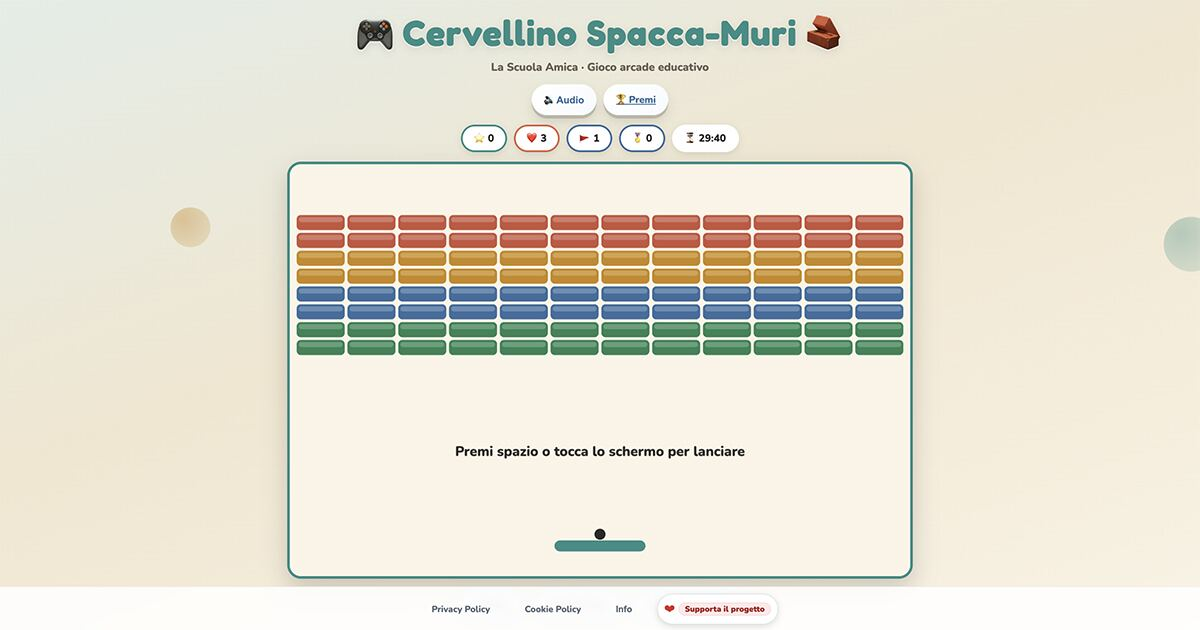
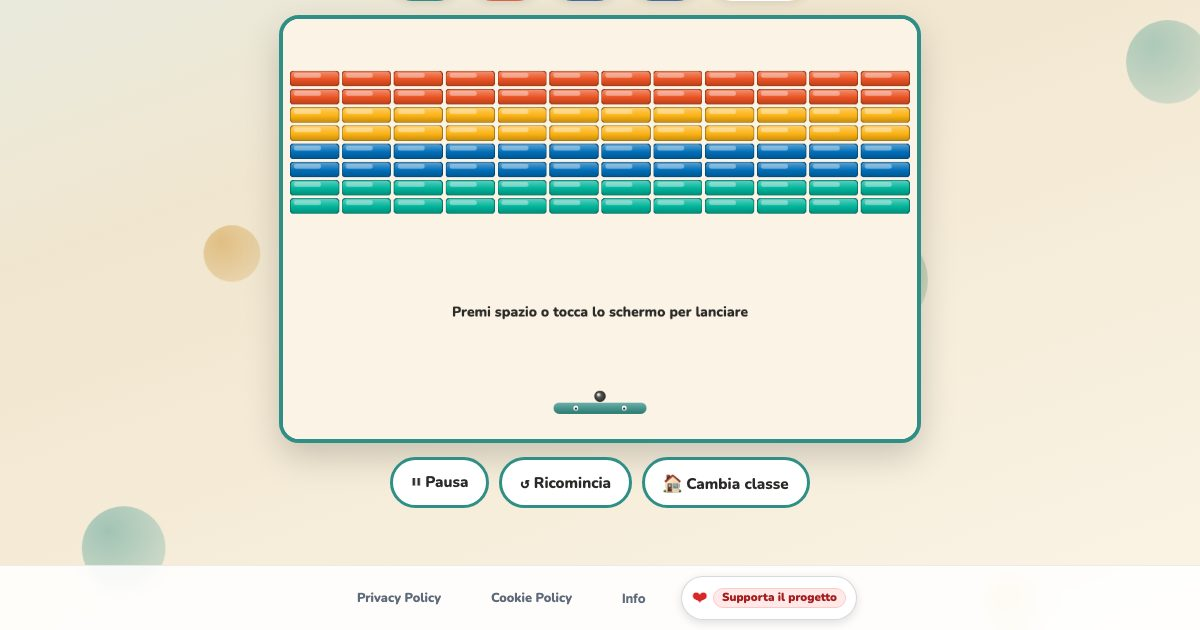
fix(seo): CLS mobile, mismatch schema FAQ, anteprima /breakout
Chiude 3 dei 4 item rimanenti dell'audit SEO del 25/08 (bump 4.12.31 -> 4.12.32):

- fix(perf): CLS mobile fuori soglia su /chi-siamo (0.254 Poor) e home (0.105)
  causato dal footer condiviso che popola #questionsTotalCount dopo il paint
  iniziale mentre parte con l'attributo hidden (footprint zero). Riservato lo
  spazio in CSS - verificato 0px di shift su /chi-siamo mobile.
- fix(perf): bug preesistente trovato testando su iPhone reale - il padding
  del footer (132px) non copriva le 3 righe reali del footer su /chi-siamo
  (169px), tagliando il testo del pulsante "Torna alla home". Portato a 190px.
- fix(schema): testo FAQPage non allineato al testo visibile su
  matematica/geografia/storia/italiano (3 risposte per pagina) - allineato 1:1.
- fix(schema): problemi.html aveva 4 "esempi svolti" che riusavano la classe
  FAQ facendo apparire 11 voci FAQ invece di 7 - rinominati in seo-example-item.
- feat(seo): prima immagine di contenuto del sito - anteprima gameplay su
  /breakout, riusando/ricatturando l'asset og-breakout-1200x630.jpg (mostrava
  ancora i mattoni pre-restyling; poi reinquadrato per includere pallina/barra
  dopo test utente su device reale).

Testato in locale (server LAN) dall'utente su iPhone 17 Pro Max, tutti i punti
confermati. Item 4 del piano (/breakout page-type mismatch SXO) discusso e
accettato senza modifiche strutturali - nessuna pagina hub "Giochi" per ora.

diff --git a/index.html b/index.html
@@ -188,7 +188,7 @@ header{text-align:center;margin-bottom:48px;animation:bounceIn .9s cubic-bezier(
 .cards-row{display:grid;grid-template-columns:repeat(auto-fit,minmax(220px,1fr));gap:24px;width:100%;max-width:980px;margin:0 auto}.subject-card{border-radius:32px;padding:36px 24px 32px;text-align:center;cursor:pointer;position:relative;overflow:hidden;text-decoration:none;display:flex;flex-direction:column;align-items:center;height:100%;min-height:440px;transition:transform .2s,box-shadow .2s}.subject-card::before{content:'';position:absolute;top:-40px;right:-40px;width:160px;height:160px;border-radius:50%;background:rgba(255,255,255,.12)}.subject-card::after{content:'';position:absolute;bottom:-50px;left:-30px;width:180px;height:180px;border-radius:50%;background:rgba(0,0,0,.06)}
 .card-math{background:linear-gradient(145deg,#9B5DE5,#c77dff);box-shadow:0 12px 40px rgba(155,93,229,.5),0 0 0 4px rgba(255,255,255,.3)}.card-english{background:linear-gradient(145deg,#005f85,#0077a3);box-shadow:0 12px 40px rgba(0,106,149,.5),0 0 0 4px rgba(255,255,255,.3)}.card-problems{background:linear-gradient(145deg,var(--prob-a),var(--prob-b));box-shadow:0 12px 40px rgba(255,123,84,.45),0 0 0 4px rgba(255,255,255,.3)}.card-civica{background:linear-gradient(145deg,var(--civ-a),var(--civ-b));box-shadow:0 12px 40px rgba(42,157,143,.42),0 0 0 4px rgba(255,255,255,.3)}.card-geografia{background:linear-gradient(145deg,var(--geo-a),var(--geo-b));box-shadow:0 12px 40px rgba(45,143,90,.42),0 0 0 4px rgba(255,255,255,.3)}.card-storia{background:linear-gradient(145deg,var(--sto-a),var(--sto-b));box-shadow:0 12px 40px rgba(138,90,68,.42),0 0 0 4px rgba(255,255,255,.3)}.card-scienze{background:linear-gradient(145deg,var(--sci-a),var(--sci-b));box-shadow:0 12px 40px rgba(42,157,143,.42),0 0 0 4px rgba(255,255,255,.3)}.card-italiano{background:linear-gradient(145deg,var(--ita-a),var(--ita-b));box-shadow:0 12px 40px rgba(209,73,91,.42),0 0 0 4px rgba(255,255,255,.3)}
 .card-icon{font-size:4rem;display:block;margin-bottom:12px}.card-title{font-family:'Fredoka One',cursive;font-size:2rem;color:#fff;text-shadow:2px 2px 0 rgba(0,0,0,.15);margin-bottom:6px;min-height:2.4em;display:flex;align-items:center;justify-content:center}.card-desc{font-size:.9rem;font-weight:700;color:rgba(255,255,255,.94);margin-bottom:14px;line-height:1.4;min-height:52px;display:flex;align-items:center;justify-content:center}.card-tags{display:flex;flex-direction:column;align-items:center;gap:8px;margin-bottom:16px;min-height:104px;justify-content:flex-start;width:100%}.tag{background:rgba(0,0,0,.18);border-radius:50px;padding:6px 12px;font-size:.75rem;font-weight:800;color:rgba(255,255,255,.96);border:1px solid rgba(255,255,255,.25);width:100%;max-width:200px;line-height:1.2}.card-btn{display:inline-block;background:#fff;border-radius:50px;padding:12px 32px;font-family:'Fredoka One',cursive;font-size:1.25rem;box-shadow:0 4px 0 rgba(0,0,0,.15);position:relative;z-index:1;margin-top:auto;align-self:center}.card-math .card-btn{color:var(--math-a)}.card-english .card-btn{color:var(--eng-a)}.card-problems .card-btn{color:var(--prob-a)}.card-civica .card-btn{color:var(--civ-a)}.card-geografia .card-btn{color:var(--geo-a)}.card-storia .card-btn{color:var(--sto-a)}.card-scienze .card-btn{color:var(--sci-a)}.card-italiano .card-btn{color:var(--ita-a)}
-footer{position:fixed;bottom:0;left:0;width:100%;background:rgba(255,255,255,.82);backdrop-filter:blur(8px);border-top:1px solid rgba(0,0,0,.07);padding:10px 16px;display:flex;justify-content:center;gap:24px;flex-wrap:wrap;align-items:center;row-gap:8px;z-index:200}.footer-link{min-width:44px;min-height:44px;padding:10px 14px;display:inline-flex;align-items:center;justify-content:center;gap:6px;white-space:nowrap;font-size:.8rem;font-weight:800;color:#5f6b7a;text-decoration:none;border:none;background:none}.footer-link:focus-visible{outline:3px solid #2d6cdf;outline-offset:2px;border-radius:10px}.footer-version{cursor:default;color:inherit;opacity:.95}
+footer{position:fixed;bottom:0;left:0;width:100%;background:rgba(255,255,255,.82);backdrop-filter:blur(8px);border-top:1px solid rgba(0,0,0,.07);padding:10px 16px;display:flex;justify-content:center;gap:24px;flex-wrap:wrap;align-items:center;row-gap:8px;z-index:200}.footer-link{min-width:44px;min-height:44px;padding:10px 14px;display:inline-flex;align-items:center;justify-content:center;gap:6px;white-space:nowrap;font-size:.8rem;font-weight:800;color:#5f6b7a;text-decoration:none;border:none;background:none}.footer-link:focus-visible{outline:3px solid #2d6cdf;outline-offset:2px;border-radius:10px}.footer-version{cursor:default;color:inherit;opacity:.95}#questionsTotalCount[hidden]{display:inline-flex!important;visibility:hidden;min-width:22ch}
 @media(max-width:900px){.cards-row{grid-template-columns:repeat(2,minmax(220px,1fr));max-width:760px}}
 @media(max-width:640px){.main-title{grid-template-columns:1fr;font-size:clamp(2.3rem,10vw,2.8rem)}.main-title .mascot-home{display:none}.main-title-text{grid-column:1;max-width:100%}.cards-row{grid-template-columns:1fr;max-width:420px}.main-facts{border-radius:24px}}
 </style>

diff --git a/problemi.html b/problemi.html
@@ -311,19 +311,19 @@
     <section class="seo-static seo-esempi" aria-label="Esempi di problemi di matematica risolti">
       <h2>Esempi di problemi di matematica risolti per la scuola primaria</h2>
       <p>Risolvere un <strong>problema di matematica per la scuola primaria</strong> significa leggere il testo con attenzione, individuare i dati utili, scegliere l'operazione giusta e controllare il risultato. Ecco 4 esempi, uno per classe, con soluzione.</p>
-      <details class="seo-faq-item">
+      <details class="seo-example-item">
         <summary>Classe 2ª — Addizione: Marco ha 12 caramelle. Ne riceve altre 8. Quante caramelle ha in totale?</summary>
         <p><strong>Dati:</strong> 12 caramelle + 8 caramelle. <strong>Operazione:</strong> addizione. <strong>Calcolo:</strong> 12 + 8 = 20. <strong>Risposta:</strong> Marco ha 20 caramelle in totale. <em>Controllo: 20 &gt; 12, ha senso perché ha ricevuto altre caramelle.</em></p>
       </details>
-      <details class="seo-faq-item">
+      <details class="seo-example-item">
         <summary>Classe 3ª — Sottrazione: In una classe ci sono 25 bambini. 9 vanno in palestra. Quanti restano in aula?</summary>
         <p><strong>Dati:</strong> 25 bambini − 9 in palestra. <strong>Operazione:</strong> sottrazione. <strong>Calcolo:</strong> 25 − 9 = 16. <strong>Risposta:</strong> Restano 16 bambini in aula. <em>Controllo: 16 + 9 = 25 ✓</em></p>
       </details>
-      <details class="seo-faq-item">
+      <details class="seo-example-item">
         <summary>Classe 4ª — Moltiplicazione: Una scatola contiene 24 matite. Quante matite ci sono in 5 scatole?</summary>
         <p><strong>Dati:</strong> 24 matite × 5 scatole. <strong>Operazione:</strong> moltiplicazione. <strong>Calcolo:</strong> 24 × 5 = 120. <strong>Risposta:</strong> Ci sono 120 matite in totale. <em>Controllo: 120 ÷ 5 = 24 ✓</em></p>
       </details>
-      <details class="seo-faq-item">
+      <details class="seo-example-item">
         <summary>Classe 5ª — Più passaggi: Lucia compra 3 quaderni a 2,50 € l'uno e una penna da 1,20 €. Quanto spende? Quanto resto riceve se paga con 10 €?</summary>
         <p><strong>Passaggio 1</strong> — costo quaderni: 3 × 2,50 € = 7,50 €. <strong>Passaggio 2</strong> — spesa totale: 7,50 € + 1,20 € = 8,70 €. <strong>Passaggio 3</strong> — resto: 10,00 € − 8,70 € = 1,30 €. <strong>Risposta:</strong> Lucia spende 8,70 € e riceve 1,30 € di resto.</p>
       </details>

diff --git a/geografia.html b/geografia.html
@@ -152,7 +152,7 @@
       "name": "Quali regioni d'Italia si studiano in geografia?",
       "acceptedAnswer": {
         "@type": "Answer",
-        "text": "Si studiano tutte e 20 le regioni italiane, raggruppate in tre macro-aree: Nord (Valle d'Aosta, Piemonte, Liguria, Lombardia, Trentino-Alto Adige, Veneto, Friuli-Venezia Giulia, Emilia-Romagna), Centro (Toscana, Marche, Umbria, Lazio) e Sud-Isole (Abruzzo, Molise, Campania, Basilicata, Puglia, Calabria, Sicilia, Sardegna). I quiz coprono regioni, capoluoghi e caratteristiche principali."
+        "text": "Si studiano tutte e 20 le regioni italiane, raggruppate in Nord, Centro e Sud-Isole. I quiz coprono regioni, capoluoghi e caratteristiche principali del territorio italiano."
       }
     },
     {
@@ -160,7 +160,7 @@
       "name": "Come si legge una carta geografica?",
       "acceptedAnswer": {
         "@type": "Answer",
-        "text": "Per leggere una carta geografica occorre usare la legenda, che spiega il significato di colori e simboli, la scala, che indica il rapporto tra le distanze sulla carta e quelle reali, e i punti cardinali (Nord, Sud, Est, Ovest) per orientarsi. I quiz di geografia allenano proprio queste competenze."
+        "text": "Per leggere una carta geografica occorre usare la legenda, che spiega colori e simboli, la scala, che indica il rapporto con le distanze reali, e i punti cardinali per orientarsi. I quiz allenano proprio queste competenze."
       }
     },
     {
@@ -168,7 +168,7 @@
       "name": "Cosa sono i paesaggi naturali e antropici?",
       "acceptedAnswer": {
         "@type": "Answer",
-        "text": "I paesaggi naturali sono formati da elementi della natura: montagne, colline, pianure, fiumi, laghi e mari. I paesaggi antropici sono invece trasformati dall'essere umano: città, campi coltivati, strade e industrie. I quiz di geografia della scuola primaria coprono entrambi i tipi di paesaggio."
+        "text": "I paesaggi naturali sono formati da elementi della natura (montagne, colline, pianure, fiumi, laghi, mari). I paesaggi antropici sono trasformati dall'essere umano: città, campi coltivati, strade. I quiz coprono entrambi i tipi."
       }
     }
   ],

diff --git a/storia.html b/storia.html
@@ -152,7 +152,7 @@
       "name": "Quali periodi storici si studiano in 4ª e 5ª?",
       "acceptedAnswer": {
         "@type": "Answer",
-        "text": "In classe 4ª si studiano preistoria, Mesopotamia, Egizi, Greci e Romani. In classe 5ª si affrontano il Medioevo con feudalesimo e cavalieri, l'Età moderna con le scoperte geografiche e la stampa, e l'Età contemporanea con la Rivoluzione industriale e i principali eventi del Novecento."
+        "text": "In classe 4ª si studiano preistoria, Mesopotamia, Egizi, Greci e Romani. In classe 5ª si affrontano Medioevo, Età moderna (scoperte geografiche, stampa) e Età contemporanea (Rivoluzione industriale, Novecento)."
       }
     },
     {
@@ -160,7 +160,7 @@
       "name": "Cosa sono le fonti storiche?",
       "acceptedAnswer": {
         "@type": "Answer",
-        "text": "Le fonti storiche sono le tracce del passato che gli storici usano per ricostruire la storia. Si dividono in fonti scritte (documenti, libri, lettere), fonti orali (testimonianze, canzoni, storie tramandate), fonti materiali (oggetti, edifici, strumenti) e fonti iconografiche (dipinti, fotografie, sculture)."
+        "text": "Le tracce del passato che gli storici usano per ricostruire la storia: fonti scritte (documenti, lettere), orali (testimonianze, storie tramandate), materiali (oggetti, edifici) e iconografiche (dipinti, fotografie, sculture)."
       }
     },
     {
@@ -168,7 +168,7 @@
       "name": "Quali sono le civiltà antiche più importanti per la primaria?",
       "acceptedAnswer": {
         "@type": "Answer",
-        "text": "Le civiltà antiche più studiate alla scuola primaria sono: Mesopotamia (Sumeri e Babilonesi), Egizi con le piramidi e i faraoni, Greci con la polis e la democrazia, Romani con l'Impero e il diritto. I quiz coprono caratteristiche, conquiste e contributi di ciascuna civiltà."
+        "text": "Mesopotamia (Sumeri e Babilonesi), Egizi con piramidi e faraoni, Greci con polis e democrazia, Romani con l'Impero e il diritto. I quiz coprono caratteristiche e contributi di ciascuna civiltà."
       }
     }
   ],

diff --git a/italiano.html b/italiano.html
@@ -152,7 +152,7 @@
       "name": "Quali parti del discorso si studiano alla primaria?",
       "acceptedAnswer": {
         "@type": "Answer",
-        "text": "Alla scuola primaria si studiano le 8 parti del discorso: nome (cane, casa), articolo (il, una), aggettivo (bello, grande), pronome (io, lui), verbo (correre, mangiare), avverbio (velocemente, sempre), preposizione (di, con, su) e congiunzione (e, ma, perché). I quiz allenano il riconoscimento in contesto."
+        "text": "Le 8 parti del discorso: nome, articolo, aggettivo, pronome, verbo, avverbio, preposizione e congiunzione. I quiz allenano il riconoscimento in contesto, dalla classe 2ª alla 5ª."
       }
     },
     {
@@ -160,7 +160,7 @@
       "name": "Come si imparano i tempi verbali?",
       "acceptedAnswer": {
         "@type": "Answer",
-        "text": "I tempi verbali si imparano riconoscendoli in frasi concrete. I principali della scuola primaria sono: presente (io mangio), imperfetto (io mangiavo), passato prossimo (io ho mangiato), futuro semplice (io mangerò) e condizionale presente (io mangerei). I quiz propongono frasi con tempi da identificare o completare."
+        "text": "Riconoscendoli in frasi concrete. I principali: presente (io mangio), imperfetto (io mangiavo), passato prossimo (io ho mangiato), futuro semplice (io mangerò), condizionale (io mangerei). I quiz propongono frasi da completare o analizzare."
       }
     },
     {
@@ -168,7 +168,7 @@
       "name": "Si possono ripassare ortografia e analisi grammaticale?",
       "acceptedAnswer": {
         "@type": "Answer",
-        "text": "Sì. Gli esercizi di ortografia coprono apostrofo, accento, uso delle doppie, distinzione tra c/g dura e dolce e divisione in sillabe. L'analisi grammaticale è inclusa nelle domande su parti del discorso e analisi logica del soggetto e del predicato."
+        "text": "Sì. Ortografia: apostrofo, accento, doppie, c/g dura e dolce, divisione in sillabe. Analisi grammaticale: riconoscimento delle parti del discorso e analisi logica di soggetto e predicato."
       }
     }
   ],

diff --git a/matematica.html b/matematica.html
@@ -152,7 +152,7 @@
       "name": "Come si imparano le tabelline alla scuola primaria?",
       "acceptedAnswer": {
         "@type": "Answer",
-        "text": "Le tabelline si imparano con la ripetizione e il riconoscimento dei pattern numerici. I quiz propongono domande sulle tabelline in ordine casuale per evitare la memorizzazione sequenziale e allenare il recupero rapido del risultato, tecnica più efficace per automatizzare i fatti numerici."
+        "text": "I quiz propongono le tabelline in ordine casuale per allenare il recupero rapido del risultato, evitando la memorizzazione sequenziale. Tecnica più efficace per automatizzare i fatti numerici dalla classe 2ª alla 4ª."
       }
     },
     {
@@ -160,7 +160,7 @@
       "name": "Quali esercizi di calcolo mentale ci sono?",
       "acceptedAnswer": {
         "@type": "Answer",
-        "text": "Gli esercizi coprono addizioni e sottrazioni entro il 1000, moltiplicazioni e divisioni, calcolo con i decimali e le frazioni semplici. Le domande sono formulate per allenare il calcolo mentale senza carta, con 4 opzioni di risposta che includono errori tipici come distrattori."
+        "text": "Addizioni e sottrazioni entro il 1000, moltiplicazioni e divisioni, calcolo con decimali e frazioni semplici. Le 4 opzioni includono errori tipici come distrattori per allenare la precisione."
       }
     },
     {
@@ -168,7 +168,7 @@
       "name": "Si possono ripassare la geometria e le misure?",
       "acceptedAnswer": {
         "@type": "Answer",
-        "text": "Sì. I quiz di geometria coprono figure piane (quadrato, rettangolo, triangolo, cerchio) con perimetro e area, figure solide, angoli e simmetrie. Le misure comprendono lunghezze, pesi, capacità e tempo, con conversioni tra unità di misura."
+        "text": "Sì. Geometria: figure piane (quadrato, rettangolo, triangolo, cerchio) con perimetro e area, angoli e simmetrie. Misure: lunghezze, pesi, capacità e tempo con conversioni tra unità."
       }
     }
   ],

diff --git a/subject-quiz-theme.css b/subject-quiz-theme.css
@@ -387,6 +387,14 @@ header {
   letter-spacing: 0.2px;
 }
 
+.seo-static img {
+  width: 100%;
+  height: auto;
+  display: block;
+  border-radius: 12px;
+  margin-bottom: 10px;
+}
+
 .seo-static h2 {
   font-family: 'Fredoka One', 'Fredoka One Fallback', cursive;
   font-size: 1rem;
@@ -442,12 +450,14 @@ header {
   content: 'Grammatica ed esempi';
 }
 
-.seo-faq-item {
+.seo-faq-item,
+.seo-example-item {
   border-top: 1px solid rgba(var(--info-blue-rgb) / 0.16);
   padding: 8px 0;
 }
 
-.seo-faq-item summary {
+.seo-faq-item summary,
+.seo-example-item summary {
   cursor: pointer;
   font-weight: 800;
   font-size: 0.9rem;
@@ -455,11 +465,13 @@ header {
   line-height: 1.3;
 }
 
-.seo-faq-item summary:hover {
+.seo-faq-item summary:hover,
+.seo-example-item summary:hover {
   text-decoration: underline;
 }
 
-.seo-faq-item p {
+.seo-faq-item p,
+.seo-example-item p {
   margin: 6px 0 0;
   font-size: 0.88rem;
   line-height: 1.45;
@@ -1931,6 +1943,7 @@ html:not([data-palette="okabe-ito"]) body.subject-civica {
 html[data-palette="okabe-ito"] .icon-btn,
 html[data-palette="okabe-ito"] .seo-static h2,
 html[data-palette="okabe-ito"] .seo-faq-item summary,
+html[data-palette="okabe-ito"] .seo-example-item summary,
 html[data-palette="okabe-ito"] .related-subjects h2,
 html[data-palette="okabe-ito"] .related-subjects a,
 html[data-palette="okabe-ito"] .class-selector-label,

diff --git a/breakout.html b/breakout.html
@@ -221,6 +221,7 @@
 
     <section class="seo-static" aria-label="Il gioco Cervellino Spacca-Muri">
       <h2>Cervellino Spacca-Muri: il gioco arcade con le domande della scuola primaria</h2>
+      <img src="/screenshots/og-breakout-1200x630.jpg" width="1200" height="630" loading="lazy" alt="Schermata di gioco di Cervellino Spacca-Muri: muro di mattoni colorati, barra e pallina pronti al lancio">
       <p>Cervellino Spacca-Muri è il <strong>gioco arcade di La Scuola Amica</strong> ispirato ai classici rompi-mattoni: si muove una barra in basso per rimbalzare la pallina e distruggere il muro di mattoni colorati, senza farla cadere oltre la barra.</p>
       <ul>
         <li>Muro di 8 file di mattoni: quelli più in alto valgono più punti.</li>

diff --git a/info-pages.css b/info-pages.css
@@ -152,7 +152,7 @@ body.info-page .wrapper {
   display: flex;
   flex-direction: column;
   align-items: center;
-  padding: 20px 16px 132px;
+  padding: 20px 16px 190px;
 }
 
 body.info-page .top-links,
@@ -418,6 +418,12 @@ body.info-page .skip-link:focus {
   cursor: default;
   color: inherit;
   opacity: 0.95;
+}
+
+#questionsTotalCount[hidden] {
+  display: inline-flex !important;
+  visibility: hidden;
+  min-width: 22ch;
 }
 
 .footer-support-cta {

diff --git a/app-version.js b/app-version.js
@@ -1,7 +1,7 @@
 (function (global) {
   'use strict';
 
-  const APP_VERSION = '4.12.31';
+  const APP_VERSION = '4.12.32';
   const CACHE_NAME = `lascuolaamica-v${APP_VERSION.replace(/[^0-9]/g, '') || '1'}`;
   const VERSION_LABEL = `Versione applicazione ${APP_VERSION}`;
 

diff --git a/CHANGELOG.md b/CHANGELOG.md
@@ -1,5 +1,19 @@
 # Changelog Repo
 
+## 4.12.32 - 2026-08-25
+
+### Fixed
+- fix(perf): CLS mobile fuori soglia (`/chi-siamo` 0.254 Poor, home 0.105) causata dal footer condiviso — `#questionsTotalCount` parte con l'attributo HTML `hidden` (footprint zero) e viene popolato da `renderQuestionsTotal()` (`shared.js`) dopo il paint iniziale, a larghezza mobile lo span andava a capo su più righe cambiando l'altezza del footer. Riservato lo spazio in CSS (`#questionsTotalCount[hidden]{display:inline-flex!important;visibility:hidden;min-width:22ch}` in `index.html`/`info-pages.css`, l'unico override necessario dato che `.footer-version` era già dimensionato via `.footer-link`) — verificato che il box riservato coincide con quello popolato (0px di shift su `/chi-siamo` mobile).
+- fix(schema): testo `FAQPage` non combaciava col testo visibile su matematica/geografia/storia/italiano (3 risposte per pagina, item 5-7 espansi nello schema oltre il testo dell'HTML) — allineato lo schema al testo visibile 1:1 su tutte e 4 le pagine.
+- fix(schema): `problemi.html` aveva 11 `<details>` visibili ma solo 7 in `FAQPage` — i 4 extra sono esempi svolti (uno per classe), non FAQ, correttamente esclusi dallo schema ma riusavano la classe `seo-faq-item` facendoli apparire come voci FAQ. Rinominati in `seo-example-item` (stile identico via selettore condiviso in `subject-quiz-theme.css`), nessun cambio visivo.
+- fix(perf): trovato in test su iPhone reale — `body.info-page .wrapper` riservava solo 132px di padding-bottom per il footer fisso, ma su `/chi-siamo` (footer con più voci: contatore domande + CTA supporto) il footer va su 3 righe (169px reali), 37px in più dello spazio riservato. Il footer sovrapponeva il pulsante "Torna alla home", tagliandone il testo. Bug preesistente, indipendente dal fix CLS di questa release (stesso stato finale prima e dopo). Portato il padding a 190px con margine di sicurezza.
+
+### Added
+- feat(seo): prima immagine di contenuto del sito — anteprima gameplay di `/breakout` inserita nella sezione descrittiva della pagina, riusando l'asset `og-breakout-1200x630.jpg`. Copre il gap "zero immagini di contenuto" segnalato dall'audit SXO/visivo per la pagina più urgente. Aggiornato lo screenshot stesso in due passaggi: prima ricatturato dal gioco live perché mostrava ancora i mattoni piatti pre-restyling invece dell'attuale stile "candy"; una seconda ricattura ha poi ristretto l'inquadratura al solo riquadro di gioco (muro completo, pallina, barra, bordi), la prima versione tagliava a metà l'area vuota sotto il muro senza mostrare pallina/barra.
+
+### Changed
+- chore: bump versione `4.12.31` → `4.12.32` (CSS precachate in `sw.js` modificate: `subject-quiz-theme.css`, `info-pages.css`; bump di `CACHE_NAME` necessario).
+
 ## 4.12.31 - 2026-08-25
 
 ### Fixed
